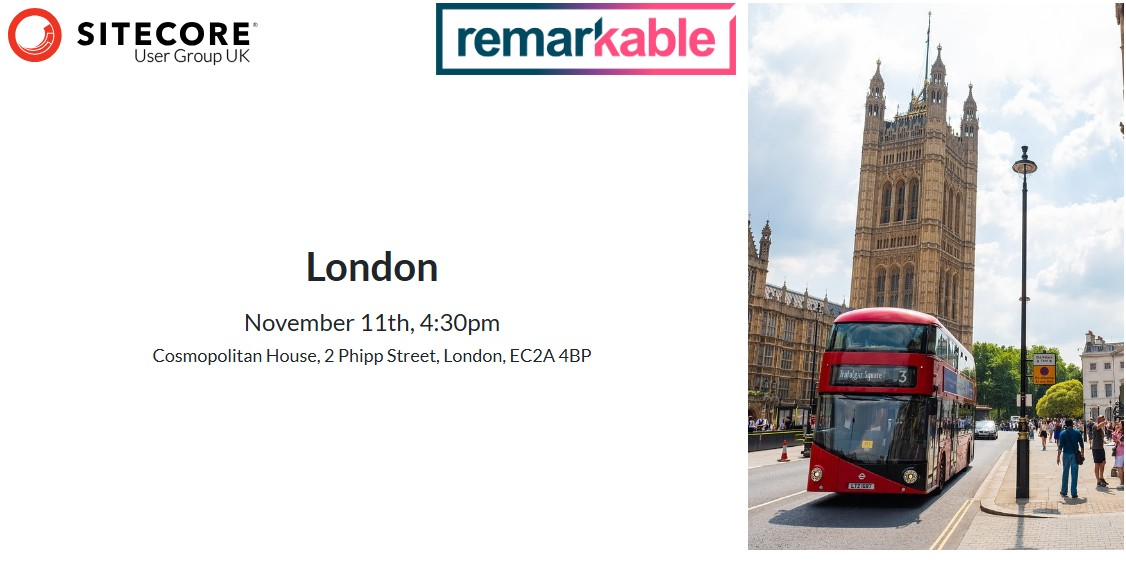
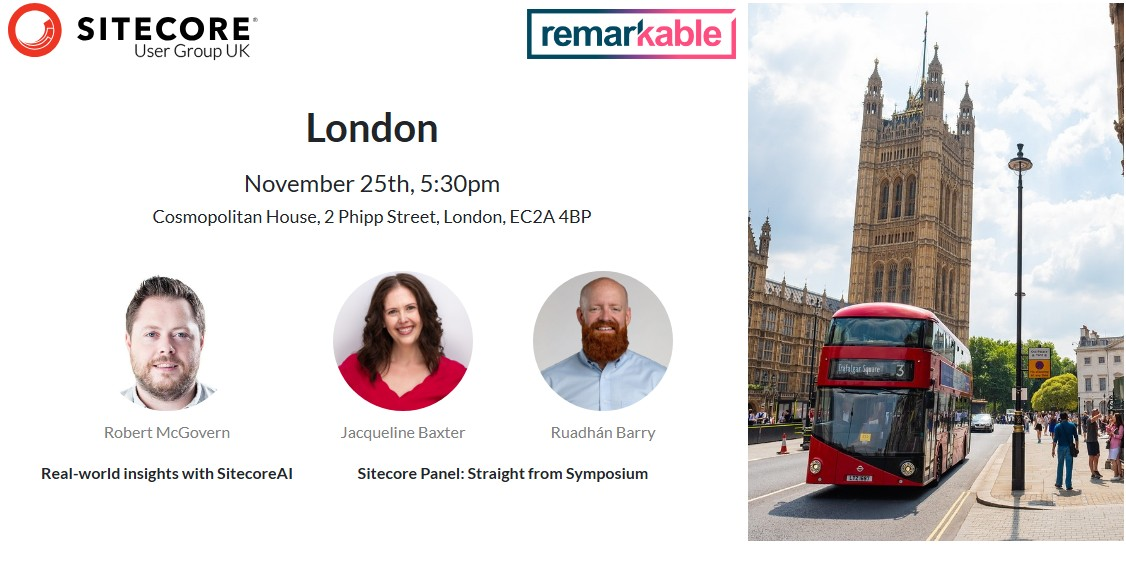
Updated site to support multi-speakers. Updated Nov 25th event (#225)
* Updated site to support multi-speakers. Updated Nov 25th event

* Fixed build error. Updated advert

diff --git a/src/components/EventAgenda/EventAgenda.tsx b/src/components/EventAgenda/EventAgenda.tsx
@@ -25,14 +25,14 @@ const EventAgendaItem = ({ time, description }: EventAgendaItemProps) => (
   </Row>
 );
 
-type EventAgendaTalkProps = Omit<EventAgendaTalkData, 'speaker'> & { speaker?: SpeakerContent };
+type EventAgendaTalkProps = Omit<EventAgendaTalkData, 'speaker' | 'speakers'> & { speakers?: SpeakerContent[] };
 
 const EventAgendaTalk = ({
   time,
   title,
   description,
   descriptionHtml,
-  speaker,
+  speakers,
   youtubeVideoId,
   links,
 }: EventAgendaTalkProps) => (
@@ -42,25 +42,29 @@ const EventAgendaTalk = ({
     </Col>
     <Col md={10}>
       <h3 className={styles.eventAgenda__title}>{title}</h3>
-      {speaker && (
-        <div className={styles.eventAgenda__speaker}>
-          {speaker.image ? (
-            <Image
-              className={styles.eventAgenda__profileImage}
-              src={`/data/speakers/${speaker.image}`}
-              width='60'
-              height='60'
-              alt={`Profile photo of ${speaker.name}`}
-            />
-          ) : (
-            <DefaultProfileImage className={styles.eventAgenda__profileImage} />
-          )}
-          <div className={styles.eventAgenda__speakerDetailsColumn}>
-            <span className={styles.eventAgenda__speakerName}>{speaker.name}</span>
-            <span className={styles.eventAgenda__speakerTitle}>
-              {speaker.title} at {speaker.company}
-            </span>
-          </div>
+      {speakers && speakers.length > 0 && (
+        <div className={styles.eventAgenda__speakers}>
+          {speakers.map((speaker) => (
+            <div key={speaker.name} className={styles.eventAgenda__speaker}>
+              {speaker.image ? (
+                <Image
+                  className={styles.eventAgenda__profileImage}
+                  src={`/data/speakers/${speaker.image}`}
+                  width='60'
+                  height='60'
+                  alt={`Profile photo of ${speaker.name}`}
+                />
+              ) : (
+                <DefaultProfileImage className={styles.eventAgenda__profileImage} />
+              )}
+              <div className={styles.eventAgenda__speakerDetailsColumn}>
+                <span className={styles.eventAgenda__speakerName}>{speaker.name}</span>
+                <span className={styles.eventAgenda__speakerTitle}>
+                  {speaker.title} at {speaker.company}
+                </span>
+              </div>
+            </div>
+          ))}
         </div>
       )}
       {descriptionHtml ? <div dangerouslySetInnerHTML={{ __html: descriptionHtml }}></div> : <p>{description}</p>}
@@ -126,7 +130,9 @@ const EventAgenda = ({ event: { agenda }, speakers }: EventAgendaProps) => (
           <EventAgendaTalk
             key={i}
             {...agendaItem}
-            speaker={agendaItem.speaker ? speakers[agendaItem.speaker] : undefined}
+            speakers={(agendaItem.speakers ?? [agendaItem.speaker])
+              .filter((speaker) => speaker !== undefined)
+              .map((speaker) => speakers[speaker!])}
           />
         );
       }

diff --git a/src/components/EventAdvert/EventAdvert.tsx b/src/components/EventAdvert/EventAdvert.tsx
@@ -16,23 +16,31 @@ import SitecoreUGLogo from './logo.svg';
 import DefaultProfileImage from './default-profile.svg';
 import cn from 'classnames';
 
-type EventAdvertTalkProps = Omit<EventAgendaTalkData, 'speaker'> & { speaker?: SpeakerContent };
+type EventAdvertTalkProps = Omit<EventAgendaTalkData, 'speaker' | 'speakers'> & { speakers?: SpeakerContent[] };
 
-const EventAdvertTalk = ({ title, speaker }: EventAdvertTalkProps) => (
+const EventAdvertTalk = ({ title, speakers }: EventAdvertTalkProps) => (
   <div className={styles.eventAdvert__entry}>
-    <div className={styles.eventAdvert__speaker}>
-      {speaker && speaker.image ? (
-        <Image
-          className={styles.eventAdvert__profileImage}
-          src={`/data/speakers/${speaker.image}`}
-          width='180'
-          height='180'
-          alt={`Profile photo of ${speaker.name}`}
-        />
-      ) : (
-        <DefaultProfileImage className={styles.eventAdvert__profileImage} />
+    <div className={styles.eventAdvert__talk}>
+      {speakers && speakers.length > 0 && (
+        <div className={styles.eventAdvert__speakers}>
+          {speakers.map((speaker) => (
+            <div key={speaker.name} className={styles.eventAdvert__speaker}>
+              {speaker.image ? (
+                <Image
+                  className={styles.eventAdvert__profileImage}
+                  src={`/data/speakers/${speaker.image}`}
+                  width='180'
+                  height='180'
+                  alt={`Profile photo of ${speaker.name}`}
+                />
+              ) : (
+                <DefaultProfileImage className={styles.eventAdvert__profileImage} />
+              )}
+              <span className={styles.eventAdvert__speakerName}>{speaker && speaker.name}</span>
+            </div>
+          ))}
+        </div>
       )}
-      <span className={styles.eventAdvert__speakerName}>{speaker && speaker.name}</span>
       <span className={styles.eventAdvert__speakerTitle}>{title}</span>
     </div>
   </div>
@@ -77,7 +85,9 @@ const EventAdvert = ({ event, speakers, sponsors }: EventAdvertProps) => {
                 <EventAdvertTalk
                   key={i}
                   {...agendaItem}
-                  speaker={agendaItem.speaker ? speakers[agendaItem.speaker] : undefined}
+                  speakers={(agendaItem.speakers ?? [agendaItem.speaker])
+                    .filter((speaker) => speaker !== undefined)
+                    .map((speaker) => speakers[speaker!])}
                 />
               ))}
             </section>

diff --git a/src/components/EventAdvert/EventAdvert.module.scss b/src/components/EventAdvert/EventAdvert.module.scss
@@ -16,22 +16,35 @@
 
   &__sponsorImage {
     max-width: 300px;
-    max-height: 75px;
+    max-height: 50px;
   }
 
   &__talks {
     display: flex;
     flex-direction: row;
     justify-content: center;
-    column-gap: 0rem;
+    column-gap: 10px;
+    height: 270px;
 
     &--empty {
       margin-bottom: 140px;
     }
   }
 
-  &__entry {
-    flex-basis: 33%;
+  &__talk {
+    display: flex;
+    flex-direction: column;
+    justify-content: center;
+    align-items: center;
+    text-align: center;
+  }
+
+  &__speakers {
+    display: flex;
+    flex-direction: row;
+    justify-content: center;
+    align-items: center;
+    text-align: center;
   }
 
   &__speaker {
@@ -40,6 +53,9 @@
     justify-content: center;
     align-items: center;
     text-align: center;
+    flex-basis: 0;
+    flex-grow: 1;
+    width: 200px;
   }
 
   &__profileImage {
@@ -62,6 +78,7 @@
   &__speakerTitle {
     font-weight: bold;
     font-size: 16px;
+    max-width: 300px;
   }
 
   &__city {

diff --git a/src/pages/events/[key].tsx b/src/pages/events/[key].tsx
@@ -41,8 +41,9 @@ export const getStaticProps: GetStaticProps<EventPageProps> = async ({ params })
   const speakerMap = await Promise.all(
     eventContent.agenda
       .filter(isTalk)
-      .filter((t) => t.speaker != undefined)
-      .map(async (i) => [i.speaker, await getSpeaker(i.speaker!)] as [string, SpeakerContent])
+      .filter((t) => t.speaker !== undefined || t.speakers !== undefined)
+      .flatMap((t) => t.speakers ?? [t.speaker])
+      .map(async (i) => [i, await getSpeaker(i!)] as [string, SpeakerContent])
   );
   const speakers = speakerMap.reduce(
     (obj, item) => ((obj[item[0]] = item[1]), obj),

diff --git a/src/pages/events/[key]/ad.tsx b/src/pages/events/[key]/ad.tsx
@@ -34,8 +34,9 @@ export const getStaticProps: GetStaticProps<EventPageProps> = async ({ params })
   const speakerMap = await Promise.all(
     eventContent.agenda
       .filter(isTalk)
-      .filter((t) => t.speaker != undefined)
-      .map(async (i) => [i.speaker, await getSpeaker(i.speaker!)] as [string, SpeakerContent])
+      .filter((t) => t.speaker !== undefined || t.speakers !== undefined)
+      .flatMap((t) => t.speakers ?? [t.speaker])
+      .map(async (i) => [i, await getSpeaker(i!)] as [string, SpeakerContent])
   );
   const speakers = speakerMap.reduce(
     (obj, item) => ((obj[item[0]] = item[1]), obj),

diff --git a/src/content.types.ts b/src/content.types.ts
@@ -38,6 +38,7 @@ export type EventAgendaTalk = {
   type: 'talk';
   time: string;
   speaker?: string;
+  speakers?: string[];
   title: string;
   description?: string;
   descriptionHtml?: string;

diff --git a/src/components/EventAgenda/EventAgenda.module.scss b/src/components/EventAgenda/EventAgenda.module.scss
@@ -46,6 +46,12 @@
     }
   }
 
+  &__speakers {
+    display: flex;
+    flex-direction: column;
+    row-gap: 10px;
+  }
+
   &__speaker {
     display: flex;
     column-gap: 1rem;
